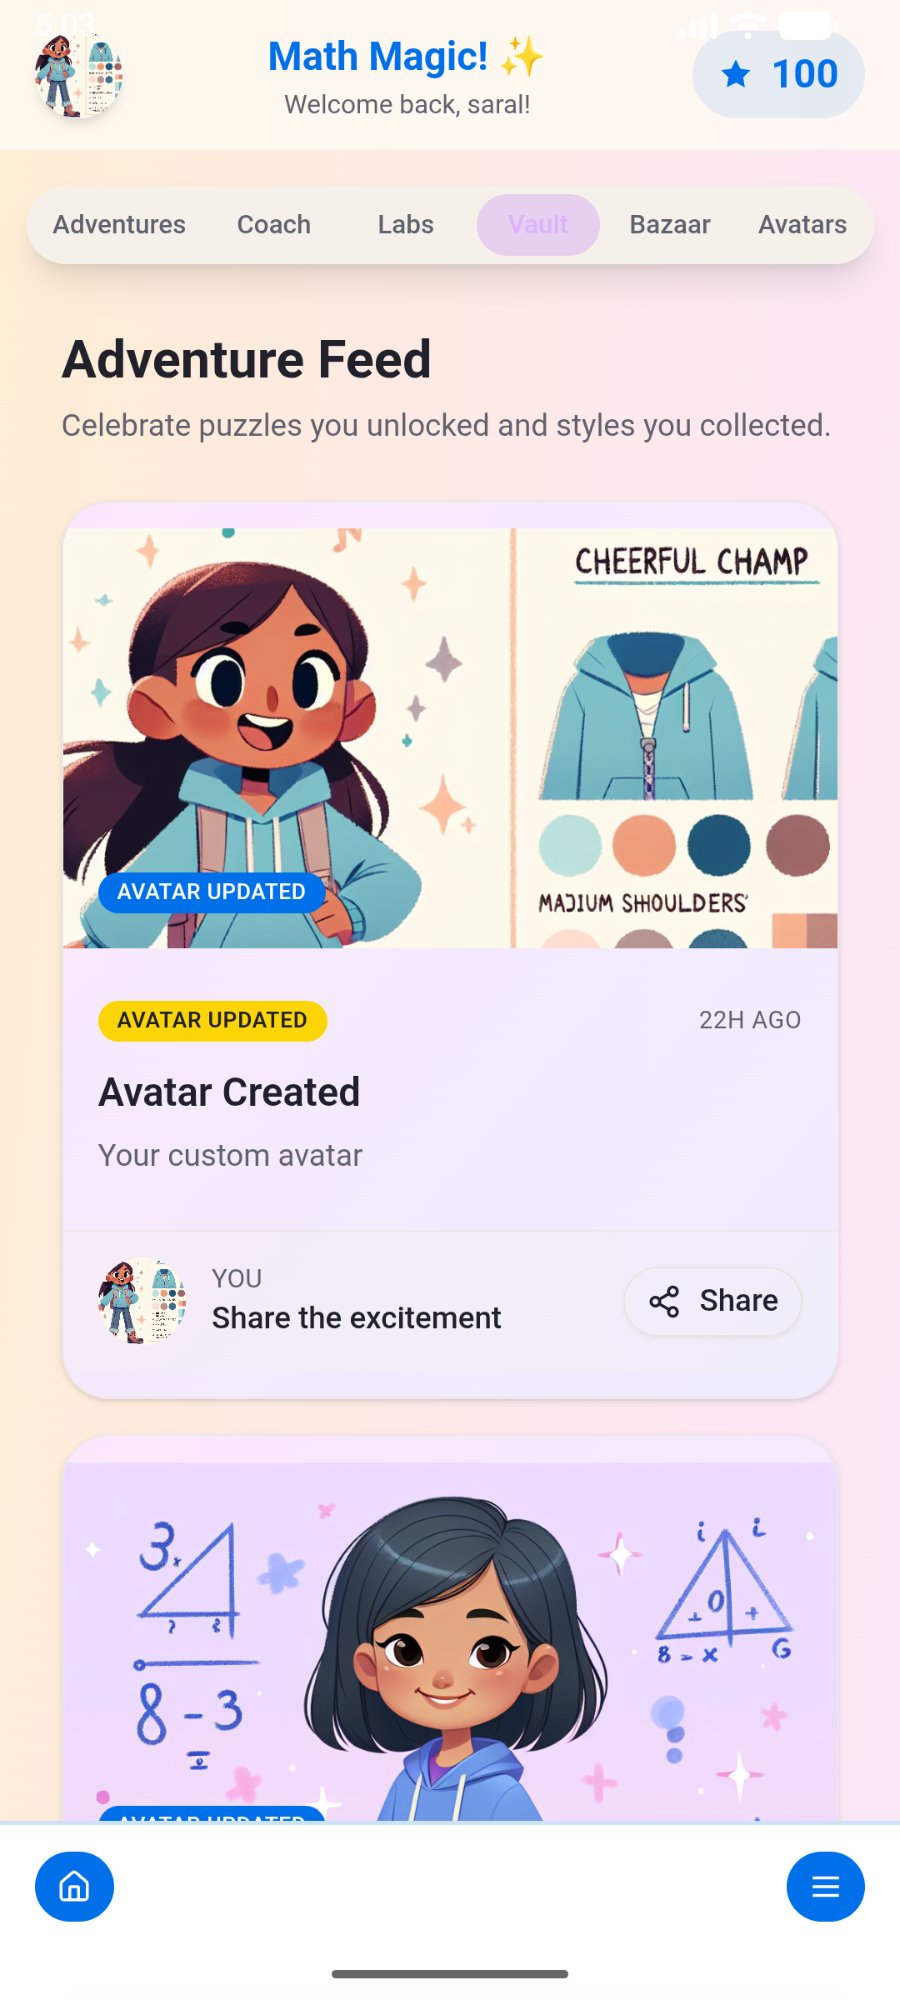
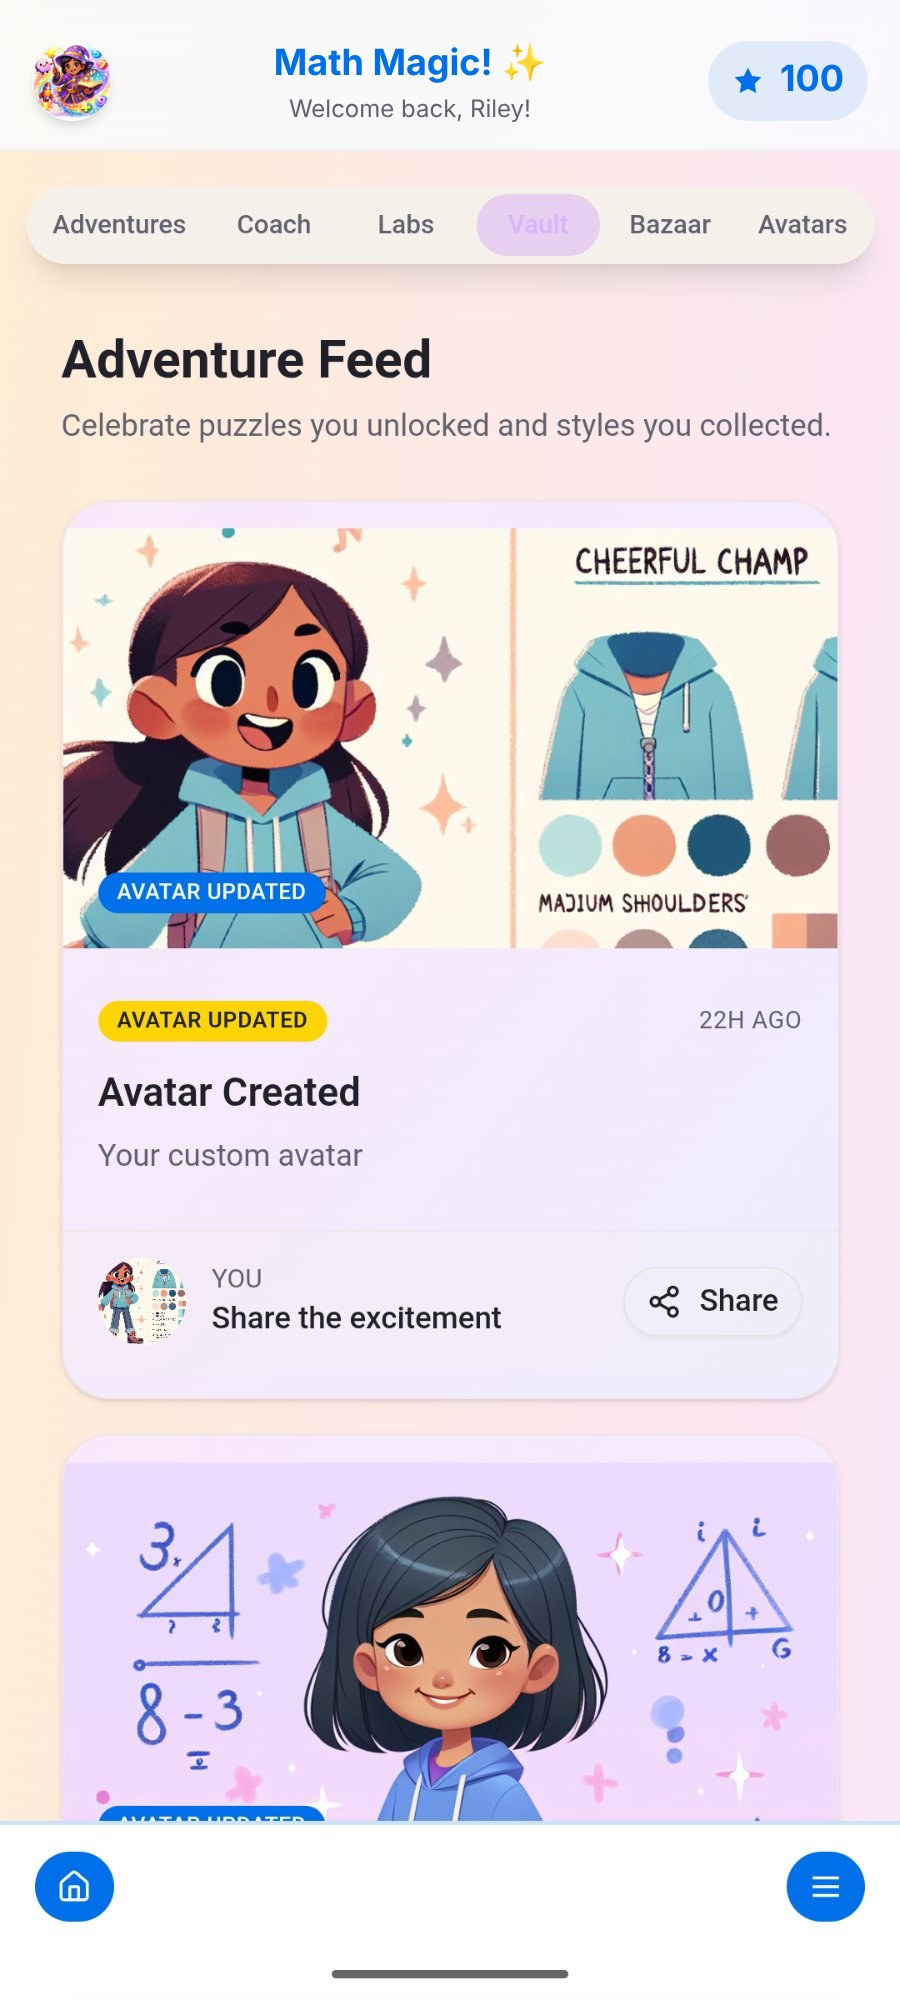
Marketing cleanups: test-free screenshots, roadmap without Fractions, "stars are earned" badge
- Hero mockup (images/MathMajicMainScreen.png, also used in the screenshot
  strip and beta.html): retaken from the current app as the fictional
  sample child "Riley" (same as the sample weekly email) instead of the
  "uuuuuuuuuu" test account. Same path, size and format.
- Adventure Feed and AI Math Coach screenshots: their "Welcome back,
  saral!" header is replaced with the app's real header for Riley,
  captured at the same scale. The rest of each screenshot is unchanged
  (its content needs live AI/puzzle data to re-shoot).
- What's Next: Fractions removed (it's live as the starter adventure); the
  five remaining items are centred, so the last row doesn't leave a gap.
- Trust badge "No In-App Purchases" -> "Stars are earned, never bought" on
  the home, Parents and Grades pages, so the Bazaar doesn't read as a shop
  to parents. Prose "no ads, no in-app purchases" is unchanged (still true).
- .github/claude-review.md: the new badge added to the approved claim
  vocabulary as a product claim (the app has no payment code).

Checks: banned-claim grep empty; one policy-version stamp; Netlify form
intact; tags balance; JSON-LD parses; privacy.html untouched.

Claude-Session: https://claude.ai/code/session_019Y3bvnjQjPoS94JRVygJnY

Changed region(s): [[0.28, 0.0, 0.5911, 0.062], [0.0311, 0.0, 0.1556, 0.062], [0.8089, 0.031, 0.9644, 0.062]]

diff --git a/index.html b/index.html
@@ -991,12 +991,20 @@
         .roadmap-header { text-align: center; margin-bottom: 50px; }
         .roadmap-header .section-label { color: var(--orange); }
 
+        /* Flex (not grid) so a short last row is centred: 5 items read 3 + 2. */
         .roadmap-grid {
-            display: grid;
-            grid-template-columns: repeat(3, 1fr);
-            gap: 20px;
+            --roadmap-cols: 3;
+            --roadmap-gap: 20px;
+            display: flex;
+            flex-wrap: wrap;
+            justify-content: center;
+            gap: var(--roadmap-gap);
             max-width: 780px;
             margin: 0 auto;
+        }
+
+        .roadmap-grid > .roadmap-item {
+            flex: 0 0 calc((100% - (var(--roadmap-cols) - 1) * var(--roadmap-gap)) / var(--roadmap-cols));
         }
 
         .roadmap-item {
@@ -1333,7 +1341,7 @@
             .parents-hub-grid { grid-template-columns: 1fr; gap: 48px; }
             .parents-hub-visual { order: -1; }
             .topics-grid { grid-template-columns: 1fr; }
-            .roadmap-grid { grid-template-columns: repeat(2, 1fr); }
+            .roadmap-grid { --roadmap-cols: 2; }
         }
 
         @media (max-width: 640px) {
@@ -1364,7 +1372,7 @@
             .screenshots-scroll { gap: 16px; }
             .screenshot-frame { width: 140px; height: 280px; }
             .hero-mascot { right: -20px; bottom: 40px; width: 100px; height: 100px; }
-            .roadmap-grid { grid-template-columns: 1fr 1fr; gap: 14px; }
+            .roadmap-grid { --roadmap-cols: 2; --roadmap-gap: 14px; }
             .footer-inner { flex-direction: column; text-align: center; }
             .footer-links { flex-wrap: wrap; justify-content: center; gap: 16px; }
             .beta-features { flex-direction: column; align-items: center; gap: 14px; }
@@ -1519,7 +1527,7 @@
             <div class="trust-badges parents-trust-strip reveal reveal-delay-4">
                 <span class="trust-badge">🚫 No Ads</span>
                 <span class="trust-badge">🔒 Learning Data Only</span>
-                <span class="trust-badge">💳 No In-App Purchases</span>
+                <span class="trust-badge">⭐ Stars are earned, never bought</span>
                 <span class="trust-badge">🔗 No External Links</span>
                 <span class="trust-badge">✅ Parent-confirmed emails</span>
             </div>
@@ -1581,11 +1589,10 @@
             </div>
             <div class="roadmap-grid">
                 <div class="roadmap-item reveal"><div class="roadmap-emoji" aria-hidden="true">✖</div><p>Multiplication</p></div>
-                <div class="roadmap-item reveal reveal-delay-1"><div class="roadmap-emoji" aria-hidden="true">🍕</div><p>Fractions</p></div>
-                <div class="roadmap-item reveal reveal-delay-2"><div class="roadmap-emoji" aria-hidden="true">👧👦</div><p>Multi-Child View</p></div>
-                <div class="roadmap-item reveal reveal-delay-3"><div class="roadmap-emoji" aria-hidden="true">🏅</div><p>Badges</p></div>
-                <div class="roadmap-item reveal reveal-delay-4"><div class="roadmap-emoji" aria-hidden="true">📴</div><p>Offline Mode</p></div>
-                <div class="roadmap-item reveal reveal-delay-5"><div class="roadmap-emoji" aria-hidden="true">🎨</div><p>More Art Styles</p></div>
+                <div class="roadmap-item reveal reveal-delay-1"><div class="roadmap-emoji" aria-hidden="true">👧👦</div><p>Multi-Child View</p></div>
+                <div class="roadmap-item reveal reveal-delay-2"><div class="roadmap-emoji" aria-hidden="true">🏅</div><p>Badges</p></div>
+                <div class="roadmap-item reveal reveal-delay-3"><div class="roadmap-emoji" aria-hidden="true">📴</div><p>Offline Mode</p></div>
+                <div class="roadmap-item reveal reveal-delay-4"><div class="roadmap-emoji" aria-hidden="true">🎨</div><p>More Art Styles</p></div>
             </div>
         </div>
     </section>

diff --git a/grades/index.html b/grades/index.html
@@ -855,7 +855,7 @@
             <h2 class="section-title" id="trust-title">Safe for grades 3–5 — and every kid</h2>
             <div class="trust-badges">
                 <span class="trust-badge">🚫 No Ads</span>
-                <span class="trust-badge">💳 No In-App Purchases</span>
+                <span class="trust-badge">⭐ Stars are earned, never bought</span>
                 <span class="trust-badge">🔒 Learning Data Only</span>
                 <span class="trust-badge">🛡 COPPA-committed</span>
             </div>

diff --git a/parents/index.html b/parents/index.html
@@ -993,7 +993,7 @@
             <div class="trust-badges reveal reveal-delay-4">
                 <span class="trust-badge">🚫 No Ads</span>
                 <span class="trust-badge">🔒 Learning Data Only</span>
-                <span class="trust-badge">💳 No In-App Purchases</span>
+                <span class="trust-badge">⭐ Stars are earned, never bought</span>
                 <span class="trust-badge">🔗 No External Links</span>
                 <span class="trust-badge">✅ Parent-confirmed emails</span>
             </div>

diff --git a/.github/claude-review.md b/.github/claude-review.md
@@ -29,7 +29,9 @@ from this repo's `main` weekly and on app PRs, and fails if version stamps diver
   - unqualified "never shared"
 - Approved claim vocabulary: "Learning Data Only"; "We collect only what learning needs";
   "Never sold, never used for ads, never shared with advertisers"; "No ads"; "No in-app
-  purchases"; "COPPA-committed".
+  purchases"; "COPPA-committed"; "Stars are earned, never bought" (product claim: the app
+  has no payment or billing code — stars come only from solving problems and are spent in
+  the Bazaar; recheck if the app ever adds purchases).
 - Adding a NEW claim requires checking it against the policy first; if the policy must
   change to support it, that change starts in the app repo (see §1).
 
